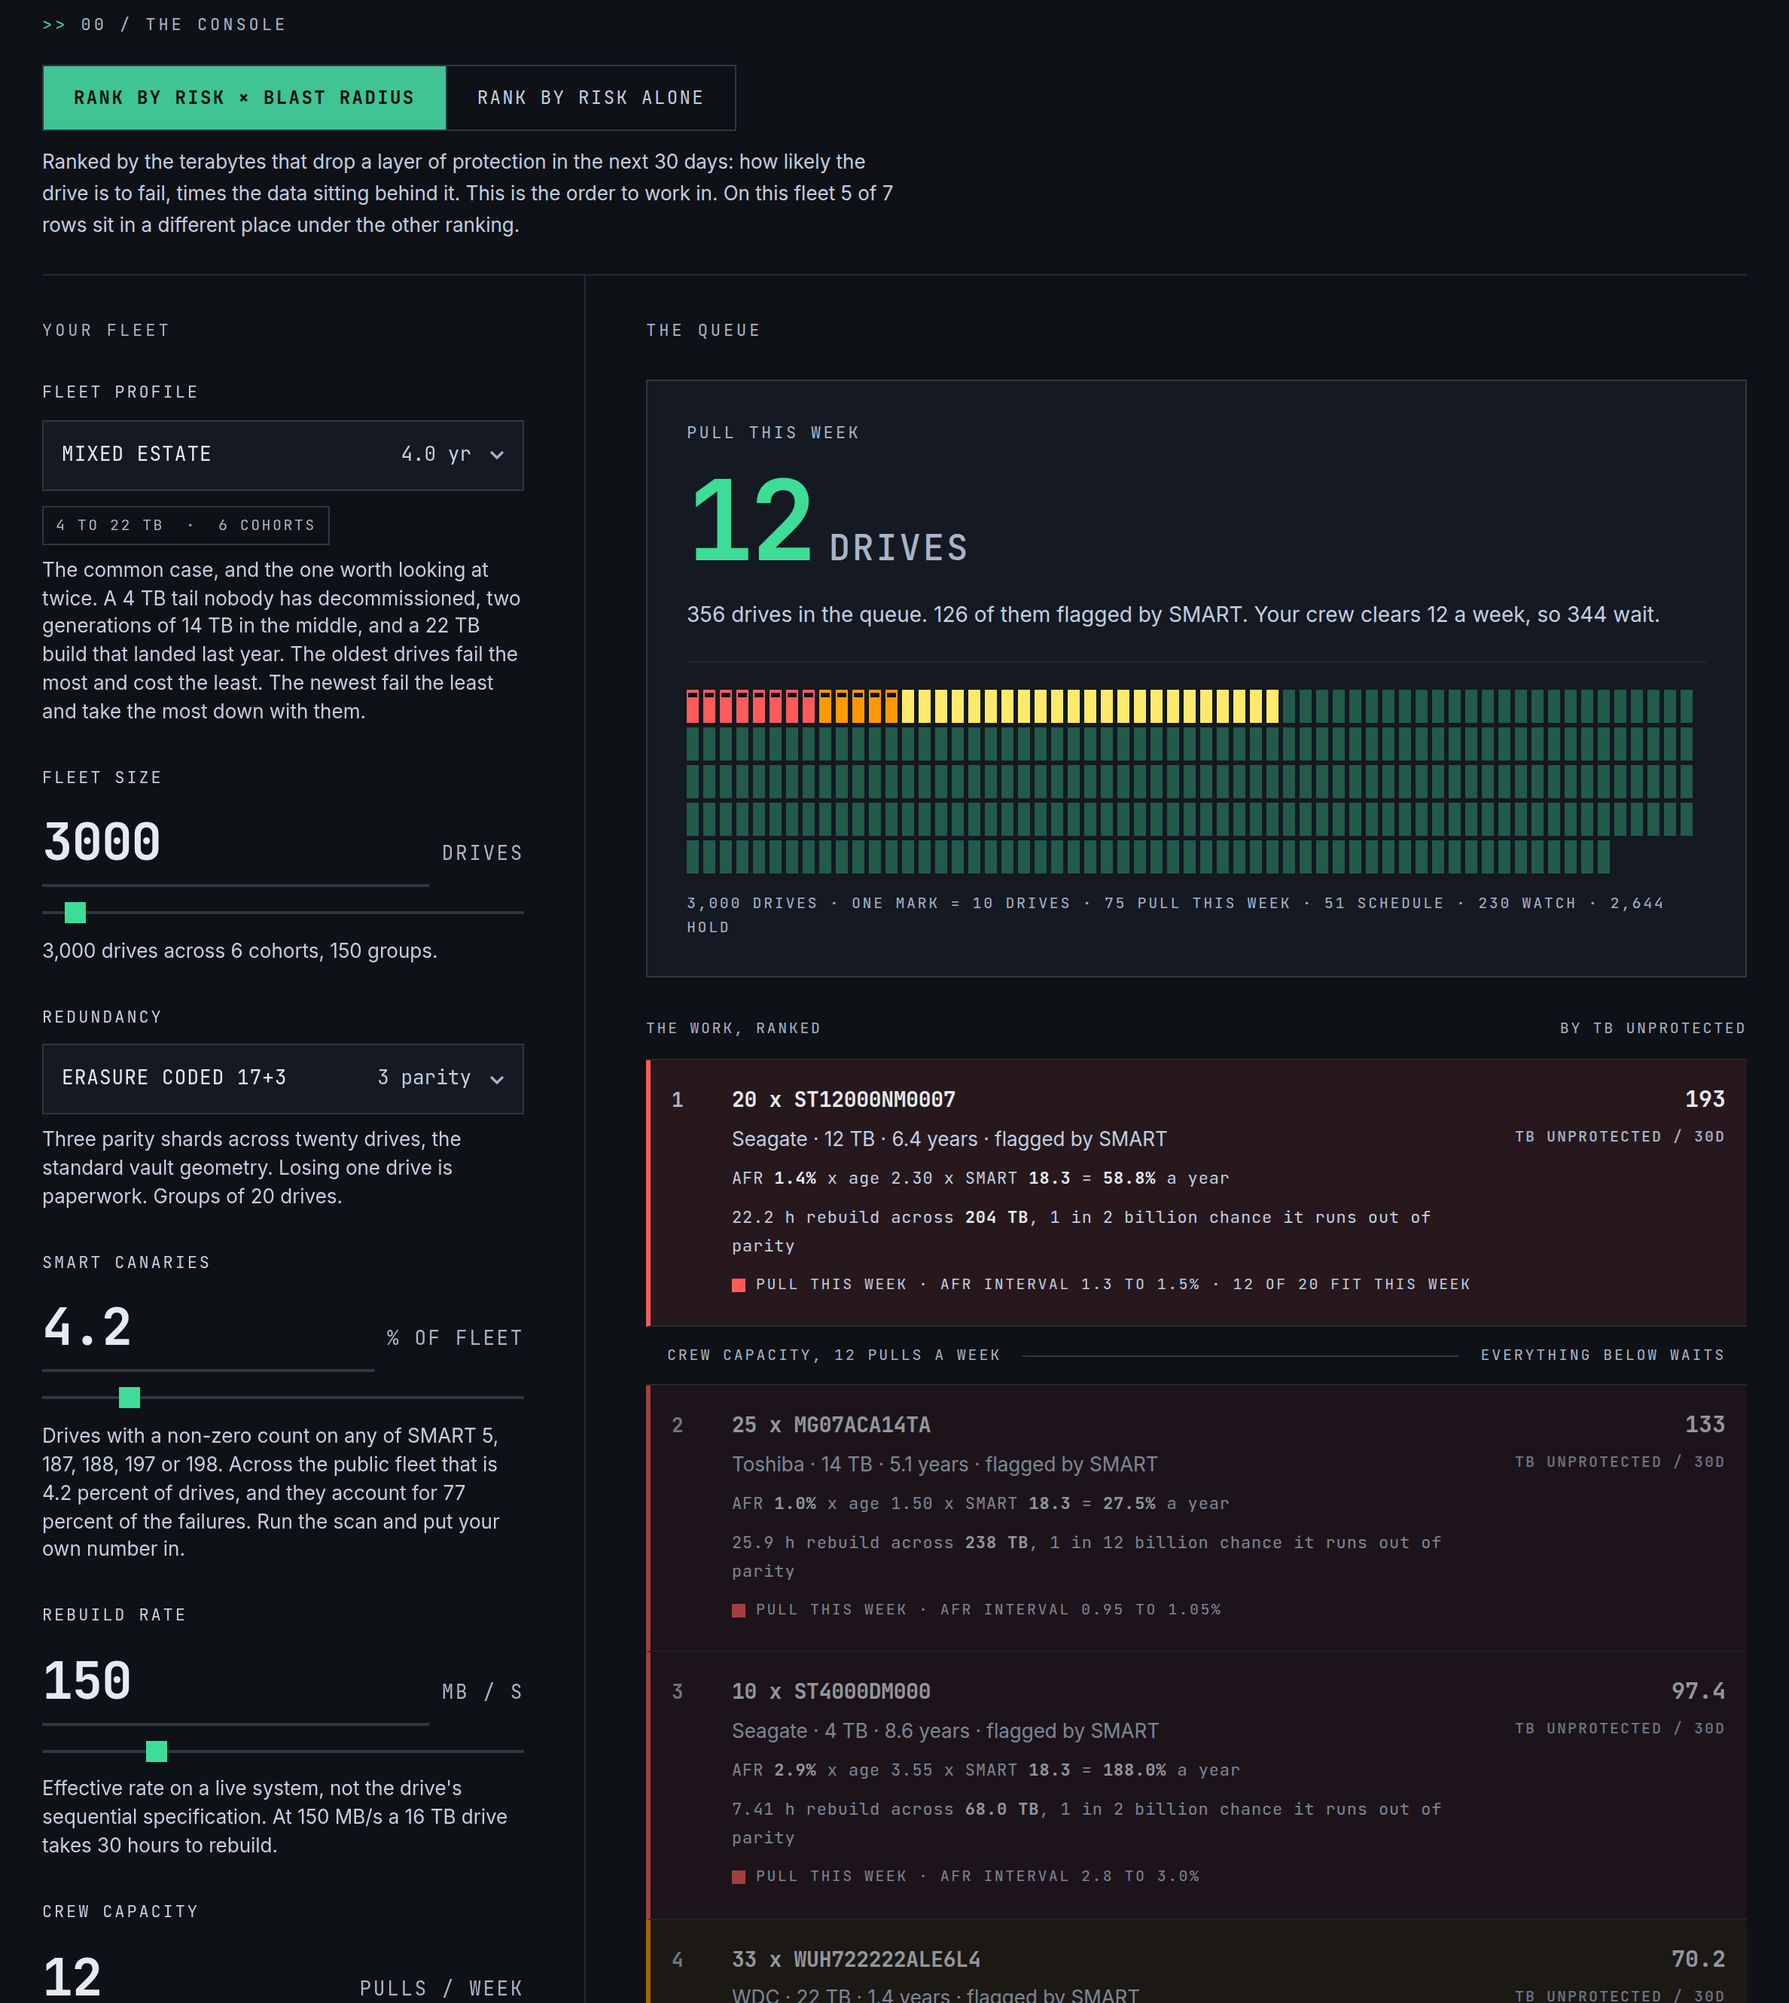
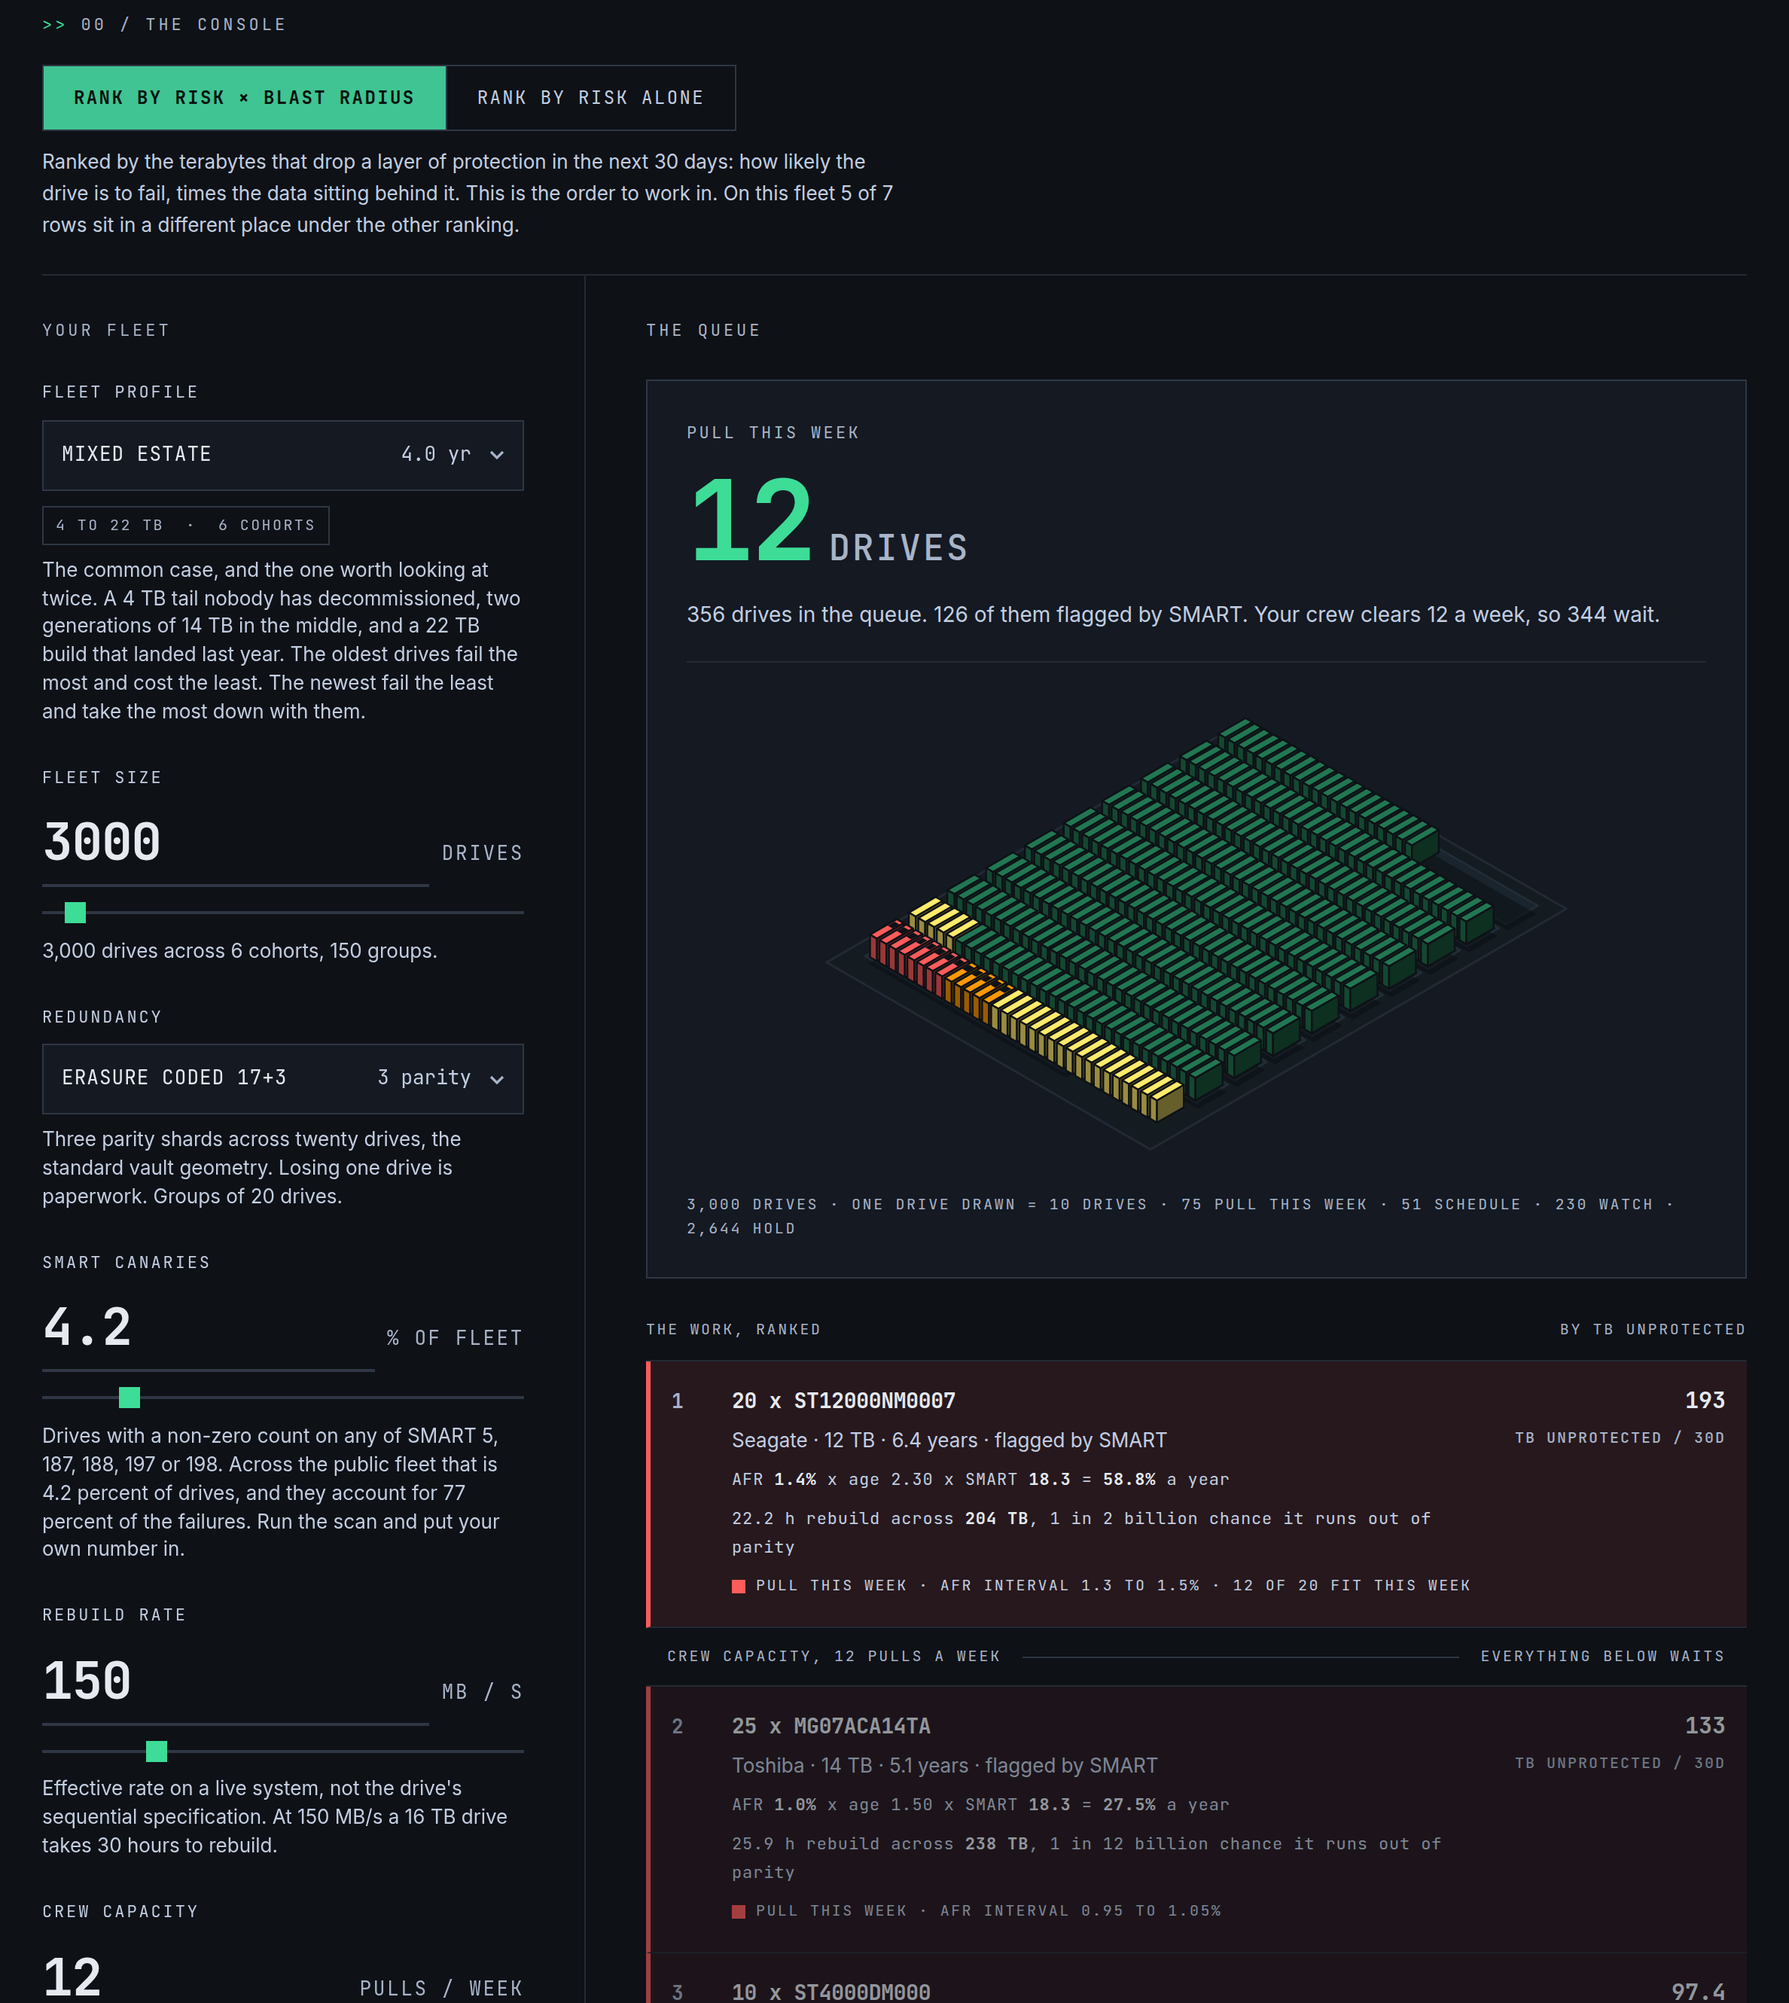
Draw the bay wall isometric, the way the hall is drawn
The flat marks were the one part of Crash Cart that did not speak the
suite's visual language. Same projection as Rack Budget's hall, same
upper-left light, same painter's order: 3.5 inch drives standing on end in
chassis rows, a lit top face, a mid front and a dark side.

Two things the redraw got to fix. Bands fill from the front row rather than
the back, so the drives you have to act on stand at the near edge and the
part-filled row falls away at the back where it reads as depth. And the
canary notch is now cut from the lit top face at every fleet size instead
of being dropped as detail, so a flagged drive still differs in shape and
not only in hue.

Real drive proportions are 26 x 147 x 102 mm, which at this scale draws as
a hairline, so the width is exaggerated to roughly 1 : 4 : 3. It reads as a
drive rather than as a rack, which is the only thing the geometry has to do.

Presentation only. Every number, ranking and regression is unchanged.

Claude-Session: https://claude.ai/code/session_01JNzajt6VBxzbekVZGr8es9

diff --git a/crash-cart/index.html b/crash-cart/index.html
@@ -222,18 +222,13 @@
   .big em{font-style:normal;font-size:.32em;letter-spacing:.06em;text-transform:uppercase;color:var(--tx3);margin-inline-start:10px;font-weight:500}
   .headline-out .note{font-size:var(--fs-md);color:var(--tx2);margin-top:14px}
 
-  /* ---------- the bay wall: one mark per drive, or per N when the fleet is large ---------- */
+  /* ---------- the bay wall ----------
+     The fleet drawn the way it sits: 3.5 inch drives standing on end in chassis rows, the
+     same isometric projection and upper-left light the hall uses. One drive per mark, or per
+     N when the fleet is large. Decorative, so it is hidden from assistive tech and the caption
+     below carries the counts as text. */
   .wall-wrap{margin-top:20px;padding-top:18px;border-top:1px solid var(--rule)}
-  .wall{display:flex;flex-wrap:wrap;gap:3px}
-  /* the drive mark is a platter stack seen edge on: a body, and a cap that reads as the
-     activity light. Band colour fills the body; the flagged state adds the cap, so the
-     drives you have to act on differ from the rest in shape as well as in hue. */
-  .wall i{width:8px;height:22px;display:block;background:var(--r-hold);position:relative}
-  .wall i.b-watch{background:var(--r-watch)}
-  .wall i.b-sched{background:var(--r-sched)}
-  .wall i.b-pull{background:var(--r-pull)}
-  .wall i.flagged:after{content:"";position:absolute;inset-inline:1px;top:2px;height:3px;background:#0E1116}
-  .wall i.b-hold{opacity:.34}
+  .wall{width:100%;height:auto;display:block;max-height:320px;margin:2px 0 0}
   .wall-cap{font-family:var(--mono);font-size:var(--fs-2xs);letter-spacing:.13em;text-transform:uppercase;color:var(--tx3);margin-top:12px;line-height:1.6}
 
   /* ---------- the queue ---------- */
@@ -484,7 +479,7 @@
           <div class="lbl" id="outLabel">Pull this week</div>
           <div class="big" id="outBig"><span id="bigNum">&mdash;</span><em id="bigUnit"></em></div>
           <div class="note" id="outNote"></div>
-          <div class="wall-wrap"><div class="wall" id="wall" aria-hidden="true"></div><div class="wall-cap" id="wallCap"></div></div>
+          <div class="wall-wrap"><svg class="wall" id="wall" aria-hidden="true"></svg><div class="wall-cap" id="wallCap"></div></div>
         </div>
 
         <div class="q-head">
@@ -965,38 +960,149 @@
   var BANDNAME = { pull:"Pull this week", sched:"Schedule", watch:"Watch", hold:"Hold" };
   var BANDCLASS = { pull:"b-pull", sched:"b-sched", watch:"b-watch", hold:"b-hold" };
 
-  /* ---------- the bay wall ---------- */
-  var WALL_MAX = 420;
+  /* ---------- the bay wall ----------
+     Drives standing on end in chassis rows, drawn in the same isometric projection as the
+     hall in Rack Budget: light from the upper left, so every box carries a lit top, a mid
+     front and a dark side. Painted back to front, which in this projection means ascending
+     x plus y. */
+  var WALL_MAX = 380, ISO_COS = 0.866, ISO_SIN = 0.5;
+  var BANDFILL = { pull:"#FF5B5B", sched:"#FF9802", watch:"#FFEA6B", hold:"#3DDC97" };
+
+  // the three faces of one band, and a dimmer set for hold so the work reads first
+  function shade(hex, k){
+    var n = parseInt(hex.slice(1),16), out = "#";
+    var ch = [(n>>16)&255, (n>>8)&255, n&255];
+    for(var i=0;i<3;i++){
+      var v = Math.max(0, Math.min(255, Math.round(ch[i]*k))).toString(16);
+      out += (v.length<2 ? "0" : "") + v;
+    }
+    return out;
+  }
+  var FACES = (function(){
+    var f = {};
+    for(var b in BANDFILL){
+      var dim = b === "hold" ? 0.54 : 1;
+      f[b] = { top: shade(BANDFILL[b], 1.00*dim), front: shade(BANDFILL[b], 0.60*dim), side: shade(BANDFILL[b], 0.40*dim) };
+    }
+    return f;
+  })();
+
   function renderWall(r){
     var wall = $("wall");
-    if(r.totalDrives === 0){ wall.innerHTML = ""; $("wallCap").textContent = "No drives in this fleet"; return; }
-    var scale = 1, steps = [1,2,5,10,20,50,100,200,500,1000];
+    if(r.totalDrives === 0){
+      wall.style.display = "none"; wall.innerHTML = ""; wall.removeAttribute("viewBox");
+      $("wallCap").textContent = "No drives in this fleet";
+      return;
+    }
+    wall.style.display = "";
+
+    var scale = 1, steps = [1,2,5,10,20,50,100,200,500,1000,2000];
     for(var si=0; si<steps.length; si++){
       if(r.totalDrives/steps[si] <= WALL_MAX){ scale = steps[si]; break; }
       scale = steps[steps.length-1];
     }
-    // marks are allocated by band, worst first, so the work sits at the front of the wall.
+
+    // marks are allocated by band, worst first, and rows fill from the front, so the work
+    // stands at the near edge of the bank where it reads before anything else.
     // The notch marks a SMART canary, which is not the same thing as the band: an old clean
     // drive can earn a band on age alone, and a young flagged one on evidence alone.
-    var order = ["pull","sched","watch","hold"], html = "", drawn = 0, counts = {}, flags = {};
+    var order = ["pull","sched","watch","hold"], counts = {}, flags = {}, marks = [];
     order.forEach(function(b){ counts[b] = 0; flags[b] = 0; });
     r.rows.forEach(function(row){
       counts[row.band] += row.n;
       if(row.flagged) flags[row.band] += row.n;
     });
     order.forEach(function(b){
-      var marks = Math.round(counts[b]/scale);
-      var notched = counts[b] > 0 ? Math.round(marks*flags[b]/counts[b]) : 0;
-      for(var i=0;i<marks && drawn<WALL_MAX+40;i++,drawn++){
-        html += '<i class="'+BANDCLASS[b]+(i<notched?" flagged":"")+'"></i>';
-      }
+      var n = Math.round(counts[b]/scale);
+      var notched = counts[b] > 0 ? Math.round(n*flags[b]/counts[b]) : 0;
+      for(var i=0;i<n && marks.length<WALL_MAX+60;i++) marks.push({ band:b, flag:i<notched });
     });
-    wall.innerHTML = html;
+    if(!marks.length) marks.push({ band:"hold", flag:false });
+
+    drawBank(marks, wall);
+
     var lines = order.filter(function(b){ return counts[b] > 0; }).map(function(b){
       return fmt(counts[b])+" "+BANDNAME[b].toLowerCase();
     });
-    $("wallCap").textContent = fmt(r.totalDrives)+" drives · one mark = "+(scale>1 ? fmt(scale)+" drives" : "one drive")+
-      " · "+lines.join(" · ");
+    $("wallCap").textContent = fmt(r.totalDrives)+" drives · one drive drawn = "+
+      (scale>1 ? fmt(scale)+" drives" : "one drive")+" · "+lines.join(" · ");
+  }
+
+  function drawBank(marks, svg){
+    /* A 3.5 inch drive standing on end is 26 x 147 x 102 mm. Held to that it would draw as a
+       hairline, so the width is exaggerated to roughly 1 : 4 : 3 and it still reads as a drive
+       rather than a rack. */
+    var DW = 0.20, DD = 0.78, DH = 0.56, GAP = 0.07, ROWGAP = 0.34, S = 11;
+    var M = marks.length;
+    // wide and shallow: drives are thin, so a bank runs long before it runs deep
+    var perRow = Math.max(6, Math.min(46, Math.round(Math.sqrt(M*3.2))));
+    var rows = Math.ceil(M/perRow);
+    // the canary notch is one polygon, so it survives at every fleet size; the label edge and
+    // the activity light are only legible while the drives are still large
+    var LOD = M <= 130 ? 2 : 1;
+
+    var pitch = DW + GAP, rowPitch = DD + ROWGAP;
+    var bankW = perRow*pitch, bankD = rows*rowPitch;
+    var padX = 0.5, padY = 0.42;
+    var pts = [], out = [];
+
+    function iso(x,y,z){ return [(x-y)*ISO_COS*S, (x+y)*ISO_SIN*S - z*S]; }
+    function poly(p, fill, stroke, sw, op){
+      for(var i=0;i<p.length;i++) pts.push(p[i]);
+      return '<polygon points="' + p.map(function(q){ return q[0].toFixed(1)+','+q[1].toFixed(1); }).join(' ') +
+             '" fill="'+fill+'"' + (stroke ? ' stroke="'+stroke+'" stroke-width="'+(sw||0.6)+'" stroke-linejoin="round"' : '') +
+             (op!==undefined ? ' opacity="'+op+'"' : '') + '/>';
+    }
+    function line(a,b,stroke,sw,op){
+      return '<line x1="'+a[0].toFixed(1)+'" y1="'+a[1].toFixed(1)+'" x2="'+b[0].toFixed(1)+'" y2="'+b[1].toFixed(1)+
+             '" stroke="'+stroke+'" stroke-width="'+sw+'"'+(op!==undefined?' opacity="'+op+'"':'')+'/>';
+    }
+
+    // ---- floor plate, then a chassis rail under each row ----
+    var fw = bankW + padX*2, fd = bankD + padY*2;
+    out.push(poly([iso(0,0,0),iso(fw,0,0),iso(fw,fd,0),iso(0,fd,0)], "#141C22", "#232A34"));
+    for(var rr=0; rr<rows; rr++){
+      var ry = padY + rr*rowPitch, rw = Math.min(perRow, M - rr*perRow)*pitch;
+      out.push(poly([iso(padX-0.08,ry-0.07,0.02),iso(padX+rw+0.02,ry-0.07,0.02),
+                     iso(padX+rw+0.02,ry+DD+0.07,0.02),iso(padX-0.08,ry+DD+0.07,0.02)], "#1A242C", "#232E38", 0.5));
+      // contact shadow, laid down before anything stands up on it
+      out.push(poly([iso(padX+0.16,ry+0.16,0.02),iso(padX+rw+0.2,ry+0.16,0.02),
+                     iso(padX+rw+0.2,ry+DD+0.2,0.02),iso(padX+0.16,ry+DD+0.2,0.02)], "#080C10", null, 0, 0.5));
+    }
+
+    // ---- the drives, back to front ----
+    var cells = [];
+    for(var i=0;i<M;i++){
+      // rows fill from the front, so the worst band sits nearest the viewer and the ragged
+      // part-filled row ends up at the back where it reads as depth rather than as damage
+      var rw2 = rows - 1 - Math.floor(i/perRow), cl = i % perRow;
+      cells.push({ x: padX + cl*pitch, y: padY + rw2*rowPitch, m: marks[i] });
+    }
+    cells.sort(function(a,b){ return (a.x+a.y) - (b.x+b.y); });
+
+    cells.forEach(function(c){
+      var x = c.x, y = c.y, f = FACES[c.m.band];
+      out.push(poly([iso(x,y,DH),iso(x+DW,y,DH),iso(x+DW,y+DD,DH),iso(x,y+DD,DH)], f.top, "#0E1116", 0.5));
+      out.push(poly([iso(x,y+DD,DH),iso(x+DW,y+DD,DH),iso(x+DW,y+DD,0),iso(x,y+DD,0)], f.front, "#0E1116", 0.5));
+      out.push(poly([iso(x+DW,y,DH),iso(x+DW,y+DD,DH),iso(x+DW,y+DD,0),iso(x+DW,y,0)], f.side, "#0E1116", 0.5));
+      // the SMART canary: a slot bitten out of the lit top face, so a flagged drive differs
+      // in shape as well as in hue wherever there is room to draw it
+      if(c.m.flag && LOD >= 1)
+        out.push(poly([iso(x+0.03,y+0.10,DH+0.004),iso(x+DW-0.03,y+0.10,DH+0.004),
+                       iso(x+DW-0.03,y+0.30,DH+0.004),iso(x+0.03,y+0.30,DH+0.004)], "#0E1116", null));
+      if(LOD === 2){
+        // the label edge and the activity light on the front face
+        out.push(line(iso(x+0.035,y+DD,DH-0.06), iso(x+DW-0.035,y+DD,DH-0.06), f.top, 0.5, 0.5));
+        out.push(poly([iso(x+0.05,y+DD,0.10),iso(x+DW-0.05,y+DD,0.10),
+                       iso(x+DW-0.05,y+DD,0.05),iso(x+0.05,y+DD,0.05)], f.top, null, 0, 0.85));
+      }
+    });
+
+    var xs = pts.map(function(q){return q[0];}), ys = pts.map(function(q){return q[1];});
+    var minx = Math.min.apply(null,xs), maxx = Math.max.apply(null,xs);
+    var miny = Math.min.apply(null,ys), maxy = Math.max.apply(null,ys), pad = 7;
+    svg.setAttribute("viewBox", (minx-pad)+" "+(miny-pad)+" "+(maxx-minx+2*pad)+" "+(maxy-miny+2*pad));
+    svg.innerHTML = out.join("");
   }
 
   /* ---------- the queue ---------- */

diff --git a/README.md b/README.md
@@ -117,9 +117,17 @@ thing that will actually stop you, because that is the part someone has to act o
 ## Technical notes
 
 Plain HTML, CSS and vanilla JavaScript. One file per tool. No framework, no bundler,
-no build step, no dependencies at runtime or at deploy time. The isometric hall is
-SVG polygons generated in about sixty lines rather than a 3D library. The whole
-model is readable with view-source.
+no build step, no dependencies at runtime or at deploy time. The whole model is
+readable with view-source.
+
+Both tools draw their subject rather than charting it, in the same isometric
+projection and upper-left light, as SVG polygons generated in about sixty lines
+rather than by a 3D library. Rack Budget draws the hall: racks in rows the way they
+really sit, hot and cold aisles, row-end CDUs. Crash Cart draws the fleet as 3.5 inch
+drives standing on end in chassis rows, ordered worst band first and filled from the
+front, so the work stands at the near edge and a fleet that has aged into the queue
+is a wall of colour before you have read a number. Both paint back to front, which in
+this projection means ascending x plus y.
 
 Chart colour is validated rather than eyeballed. The megawatt split is a single-hue
 ordinal ramp (`#4FE3A5` to `#1E9E73` to `#125C46`) checked for monotone lightness,
